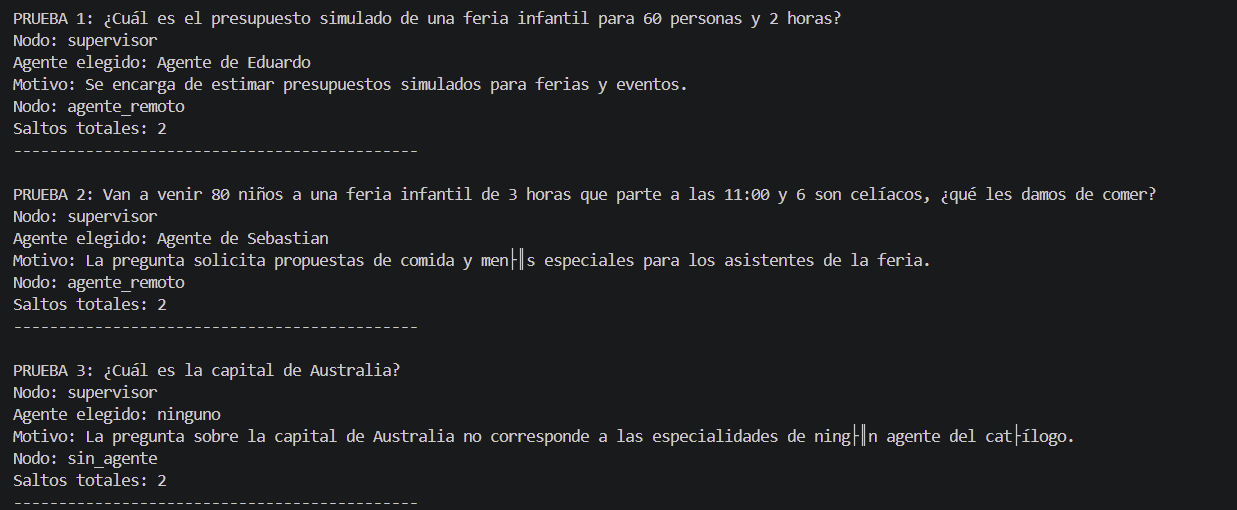
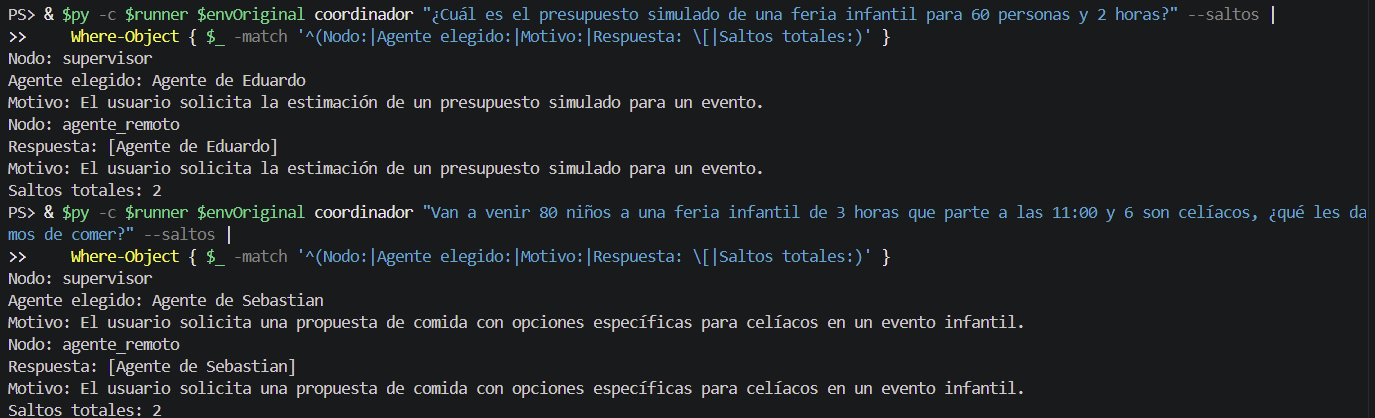
c2t1: resuelve observaciones finales de Eduardo

Changed region(s): [[0.0, 0.3421, 1.0, 0.9952], [0.0, 0.0, 0.9216, 0.311]]

diff --git a/taller-01-c2/compañeros.md b/taller-01-c2/compañeros.md
@@ -1,74 +1,173 @@
 # Agentes de los compañeros · Grupo 5
 
-Completar cuando cada compañero comparta su dirección pública. Pegar la ficha JSON
-descargada con:
+Fichas descargadas durante la prueba grupal del **8 de noviembre de 2026**, desde la
+dirección pública de cada integrante (`/.well-known/agent-card.json`). Las direcciones son
+túneles rápidos de Cloudflare: cambian cada vez que se reinicia el túnel.
 
-```powershell
-Invoke-RestMethod https://DIRECCION-DEL-COMPAÑERO/.well-known/agent-card.json | ConvertTo-Json -Depth 10
+```bash
+curl -s https://DIRECCION-DEL-COMPAÑERO/.well-known/agent-card.json
+```
+
+## Matias Muñoz · Programa y horarios
+
+- **Autor:** Matias Muñoz
+- **Nombre del agente:** Agente de Matias
+- **Skill:** Armar programa de feria (`armar_programa`)
+- **URL pública:** `https://plugin-telescope-termination-riverside.trycloudflare.com` (prueba grupal del 2026-11-08; cambia al reiniciar el túnel)
+- **Ficha JSON:** [`evidencias/alex/fichas-companeros/matias.json`](evidencias/alex/fichas-companeros/matias.json)
+
+```json
+{
+  "name": "Agente de Matias",
+  "description": "Arma el programa de actividades y el horario de ferias tecnológicas, gastronómicas, culturales o infantiles de 30 minutos a 8 horas, para público familiar, adulto o estudiantes. No responde sobre lugares ni capacidad, comida ni costos, y no reserva ni confirma el programa definitivo: entrega solo propuestas.",
+  "supportedInterfaces": [
+    {
+      "url": "https://plugin-telescope-termination-riverside.trycloudflare.com",
+      "protocolBinding": "JSONRPC",
+      "protocolVersion": "1.0"
+    }
+  ],
+  "version": "1.0.0",
+  "capabilities": {
+    "streaming": false
+  },
+  "defaultInputModes": [
+    "text/plain"
+  ],
+  "defaultOutputModes": [
+    "text/plain"
+  ],
+  "skills": [
+    {
+      "id": "armar_programa",
+      "name": "Armar programa de feria",
+      "description": "Propone las actividades que caben en el tiempo disponible, con su hora de inicio y término, según tipo de evento, público y hora de inicio.",
+      "tags": [
+        "armar_programa"
+      ],
+      "examples": [
+        "Necesito armar el programa de una feria infantil de 3 horas que parta a las 15:00."
+      ],
+      "inputModes": [
+        "text/plain"
+      ],
+      "outputModes": [
+        "text/plain"
+      ]
+    }
+  ]
+}
 ```
 
 ## Alex Nail · Lugares y capacidad
 
+- **Autor:** Alex Nail
 - **Nombre del agente:** Agente de Alex
-- **URL pública:** `https://jenny-regulated-airfare-possibilities.trycloudflare.com` (túnel del 2026-11-07; cambia al reiniciarlo)
-- **Ficha JSON:** descargada desde la URL pública (`evidencias/alex/03-ficha-publica.json`):
+- **Skill:** Buscar recintos para una feria (`buscar_recintos`)
+- **URL pública:** `https://engaging-dem-merge-momentum.trycloudflare.com` (prueba grupal del 2026-11-08; cambia al reiniciar el túnel)
+- **Ficha JSON:** [`evidencias/alex/fichas-companeros/alex.json`](evidencias/alex/fichas-companeros/alex.json)
 
 ```json
 {
-    "name": "Agente de Alex",
-    "description": "Recomienda hasta tres recintos para ferias tecnológicas, gastronómicas, culturales o infantiles de 10 a 500 personas, en espacio interior o exterior, e indica para cada uno la capacidad, el % de ocupación, los m² por persona, los stands estimados, el estacionamiento y la accesibilidad. No da precios ni arriendos, no arma el menú ni el catering, no arma el programa de actividades y no reserva recintos.",
-    "supportedInterfaces": [
-        {
-            "url": "https://jenny-regulated-airfare-possibilities.trycloudflare.com",
-            "protocolBinding": "JSONRPC",
-            "protocolVersion": "1.0"
-        }
-    ],
-    "version": "1.0.0",
-    "capabilities": {
-        "streaming": false
-    },
-    "defaultInputModes": [
+  "name": "Agente de Alex",
+  "description": "Recomienda hasta tres recintos para ferias tecnológicas, gastronómicas, culturales o infantiles de 10 a 500 personas, en espacio interior o exterior, e indica para cada uno la capacidad, el % de ocupación, los m² por persona, los stands estimados, el estacionamiento y la accesibilidad. No da precios ni arriendos, no arma el menú ni el catering, no arma el programa de actividades y no reserva recintos.",
+  "supportedInterfaces": [
+    {
+      "url": "https://engaging-dem-merge-momentum.trycloudflare.com",
+      "protocolBinding": "JSONRPC",
+      "protocolVersion": "1.0"
+    }
+  ],
+  "version": "1.0.0",
+  "capabilities": {
+    "streaming": false
+  },
+  "defaultInputModes": [
+    "text/plain"
+  ],
+  "defaultOutputModes": [
+    "text/plain"
+  ],
+  "skills": [
+    {
+      "id": "buscar_recintos",
+      "name": "Buscar recintos para una feria",
+      "description": "Busca recintos donde cabe el evento con un 10 % de holgura, según el tipo de feria, la cantidad de personas y si se prefiere un espacio interior o exterior, y avisa cuando un lugar queda demasiado grande.",
+      "tags": [
+        "buscar_recintos"
+      ],
+      "examples": [
+        "Voy a hacer una feria tecnológica para 150 personas, ¿dónde la puedo hacer?"
+      ],
+      "inputModes": [
         "text/plain"
-    ],
-    "defaultOutputModes": [
+      ],
+      "outputModes": [
         "text/plain"
-    ],
-    "skills": [
-        {
-            "id": "buscar_recintos",
-            "name": "Buscar recintos para una feria",
-            "description": "Busca recintos donde cabe el evento con un 10 % de holgura, según el tipo de feria, la cantidad de personas y si se prefiere un espacio interior o exterior, y avisa cuando un lugar queda demasiado grande.",
-            "tags": [
-                "buscar_recintos"
-            ],
-            "examples": [
-                "Voy a hacer una feria tecnológica para 150 personas, ¿dónde la puedo hacer?"
-            ],
-            "inputModes": [
-                "text/plain"
-            ],
-            "outputModes": [
-                "text/plain"
-            ]
-        }
-    ]
+      ]
+    }
+  ]
 }
 ```
 
 ## Eduardo Basaure · Presupuesto y costos estimados
 
-## Eduardo Basaure · Presupuesto y costos estimados
-
+- **Autor:** Eduardo Basaure
 - **Nombre del agente:** Agente de Eduardo
-- **URL pública:** `https://legend-origin-minor-admissions.trycloudflare.com` (túnel temporal de la prueba grupal del 8 de noviembre de 2026).
-- **Ficha JSON:** `evidencias/eduardo/03-ficha-publica.json`, descargada desde el agente público durante la prueba grupal.
+- **Skill:** Estimar presupuesto de evento (`estimar_presupuesto`)
+- **URL pública:** `https://legend-origin-minor-admissions.trycloudflare.com` (prueba grupal del 2026-11-08; cambia al reiniciar el túnel)
+- **Ficha JSON:** [`evidencias/alex/fichas-companeros/eduardo.json`](evidencias/alex/fichas-companeros/eduardo.json)
+
+```json
+{
+  "name": "Agente de Eduardo",
+  "description": "Estima presupuestos agregados y simulados para ferias y eventos usando únicamente tarifas ficticias. Incluye un costo de alimentación genérica por persona, pero no prepara menús (Sebastián), ni recomienda recintos (Alex); tampoco autoriza compras, reservas, pagos o contrataciones.",
+  "supportedInterfaces": [
+    {
+      "url": "https://legend-origin-minor-admissions.trycloudflare.com",
+      "protocolBinding": "JSONRPC",
+      "protocolVersion": "1.0"
+    }
+  ],
+  "version": "1.0.0",
+  "capabilities": {
+    "streaming": false
+  },
+  "defaultInputModes": [
+    "text/plain"
+  ],
+  "defaultOutputModes": [
+    "text/plain"
+  ],
+  "skills": [
+    {
+      "id": "estimar_presupuesto",
+      "name": "Estimar presupuesto de evento",
+      "description": "Calcula partidas agregadas simuladas en CLP para un evento, según tipo, asistentes y duración.",
+      "tags": [
+        "estimar_presupuesto"
+      ],
+      "examples": [
+        "¿Cuál es el presupuesto simulado de una feria tecnológica para 80 personas y 4 horas?"
+      ],
+      "inputModes": [
+        "text/plain"
+      ],
+      "outputModes": [
+        "text/plain"
+      ]
+    }
+  ]
+}
+```
 
 ## Sebastian Mardones · Comida y catering
 
+- **Autor:** Sebastian Mardones
 - **Nombre del agente:** Agente de Sebastian
-- **URL pública:** `https://replace-earl-univ-robinson.trycloudflare.com` (túnel del 2026-11-08; cambia al reiniciarlo)
-- **Ficha JSON:** descargada desde la URL pública (`evidencias/sebastian/02-ficha.json`):
+- **Skill:** Armar catering del evento (`armar_catering`)
+- **URL pública:** `https://defining-envelope-obtaining-dem.trycloudflare.com` (prueba grupal del 2026-11-08; cambia al reiniciar el túnel)
+- **Ficha JSON:** [`evidencias/alex/fichas-companeros/sebastian.json`](evidencias/alex/fichas-companeros/sebastian.json)
 
 ```json
 {
@@ -76,7 +175,7 @@ Invoke-RestMethod https://DIRECCION-DEL-COMPAÑERO/.well-known/agent-card.json |
   "description": "Propone la comida que se sirve a los asistentes de ferias tecnológicas, gastronómicas, culturales o infantiles de 10 a 500 personas y de 30 minutos a 8 horas: coffee break, cóctel, box lunch, almuerzo buffet, food trucks o colación infantil, con la hora de cada servicio, las cantidades y el agua calculadas, y menús vegetarianos, veganos, sin gluten y sin lactosa. No da precios ni presupuestos, no recomienda recintos ni capacidad, no arma el programa de actividades y no contrata proveedores: entrega solo propuestas.",
   "supportedInterfaces": [
     {
-      "url": "https://replace-earl-univ-robinson.trycloudflare.com",
+      "url": "https://defining-envelope-obtaining-dem.trycloudflare.com",
       "protocolBinding": "JSONRPC",
       "protocolVersion": "1.0"
     }

diff --git a/taller-01-c2/documento-eduardo.md b/taller-01-c2/documento-eduardo.md
@@ -9,8 +9,9 @@
 | Eduardo Basaure | Presupuesto y costos estimados |
 | Sebastian Mardones | Comida y catering |
 
-> Este documento cubre el agente de **Eduardo Basaure**. La ronda de preguntas se completa
-> en la prueba grupal con el coordinador y los agentes de los compañeros.
+> Este documento cubre el agente de **Eduardo Basaure** y registra
+> su construcción, validación y resultados de la ronda
+> grupal A2A del 8 de noviembre de 2026.
 
 ## 1. Blueprint y alcance
 
@@ -22,9 +23,11 @@ gastronómicos, culturales e infantiles, para 10–500 personas y duraciones de 
 ficticias y no modela impuestos. No genera cotizaciones ni autoriza compras, reservas,
 pagos o contrataciones.
 
-Derivaciones: menús, comida y catering → Sebastián; recintos y capacidad → Alex; actividades
-y horarios → Matías. Las consultas ajenas se rechazan en una frase, se deriva al agente
-correspondiente y no se ejecuta la herramienta de presupuesto.
+Derivaciones: solicitudes sobre qué menú o comida servir → Sebastián;
+recintos y capacidad → Alex; actividades y horarios → Matías.
+
+Eduardo estima costos ficticios de alimentación genérica como parte
+del presupuesto, pero no diseña menús ni cotiza proveedores reales.
 
 ## 2. Construcción y cambios
 
@@ -167,8 +170,17 @@ El coordinador mostró `Supervisor con 4 agentes`.
 | # | Pregunta | A quién fue | Motivo del supervisor | ¿Estuvo bien? |
 |---|---|---|---|---|
 | 1 | Presupuesto de feria infantil para 60 personas y 2 horas | Agente de Eduardo | El usuario solicita la estimación de un presupuesto simulado para un evento. | Sí. Entregó un presupuesto ficticio de $927.300 CLP. |
-| 2 | Alimentación para 80 niños, incluidos 6 celíacos | Agente de Sebastian | El usuario pregunta sobre comida y menús específicos para una feria infantil. | Sí. Propuso alimentación general y opciones sin gluten. |
-| 3 | ¿Cuál es la capital de Australia? | ninguno | La pregunta no corresponde a las funciones de ningún agente especializado del catálogo. | Sí. El coordinador no delegó la consulta. |
+| 2 | Alimentación para 80 niños, incluidos 6 celíacos | Agente de Sebastian | El usuario solicita una propuesta de comida con menús específicos para celíacos en una feria infantil. | Sí. Propuso alimentación general y opciones sin gluten. |
+| 3 | ¿Cuál es la capital de Australia? | ninguno | La pregunta sobre la capital de Australia no corresponde a ninguno de los agentes especializados en ferias y eventos del catálogo. | Sí. El coordinador no delegó la consulta. |
+
+### ¿Qué cambiaría de mi ficha después de la ronda?
+
+Haría más explícito que Eduardo estima costos ficticios de alimentación
+genérica, pero no propone menús ni cotiza proveedores reales; esas
+consultas corresponden a Sebastián.
+
+También destacaría los tres datos necesarios para estimar un presupuesto:
+tipo de evento, cantidad de asistentes y duración.
 
 ### Resultado
 
@@ -189,32 +201,12 @@ fuera de las especialidades disponibles.
 - `evidencias/eduardo/05-ronda.png`:
   resultados de las tres preguntas, agente elegido
   y motivo de selección.
+  - `evidencias/eduardo/05-ronda-2.png`:
+  captura complementaria de la tercera pregunta
+  (capital de Australia), con el comando ejecutado,
+  agente elegido `ninguno`, motivo, respuesta y dos saltos.
 
 ## 8. Estado de Git y seguridad
 
-## 8. Estado de Git y seguridad
-
-El agente de Eduardo fue integrado en el repositorio grupal
-mediante los PR #57, #58, #61, #62, #63 y #64.
-
-Las correcciones incluyen validación de datos obligatorios,
-memoria conversacional por context_id, mejoras en las
-responsabilidades del agente y evidencias individuales.
-
-Se ejecutaron 96 pruebas automatizadas, todas aprobadas,
-utilizando el código actualizado de main.
-
-Durante la prueba grupal del 8 de noviembre de 2026,
-el coordinador descubrió cuatro agentes y realizó
-correctamente las tres selecciones de la ronda de Eduardo.
-
-Las conexiones públicas utilizaron túneles temporales
-de Cloudflare. Estas direcciones pueden dejar de funcionar
-al finalizar la sesión.
-
-Las evidencias de la ronda se incorporarán mediante un
-PR de cierre independiente.
-
-No deben incluirse archivos .env, claves de Gemini,
-credenciales ni rutas personales en las evidencias
-publicadas.
+Las evidencias finales de la ronda se presentan en el PR #70
+para revisión e integración en `main`.
